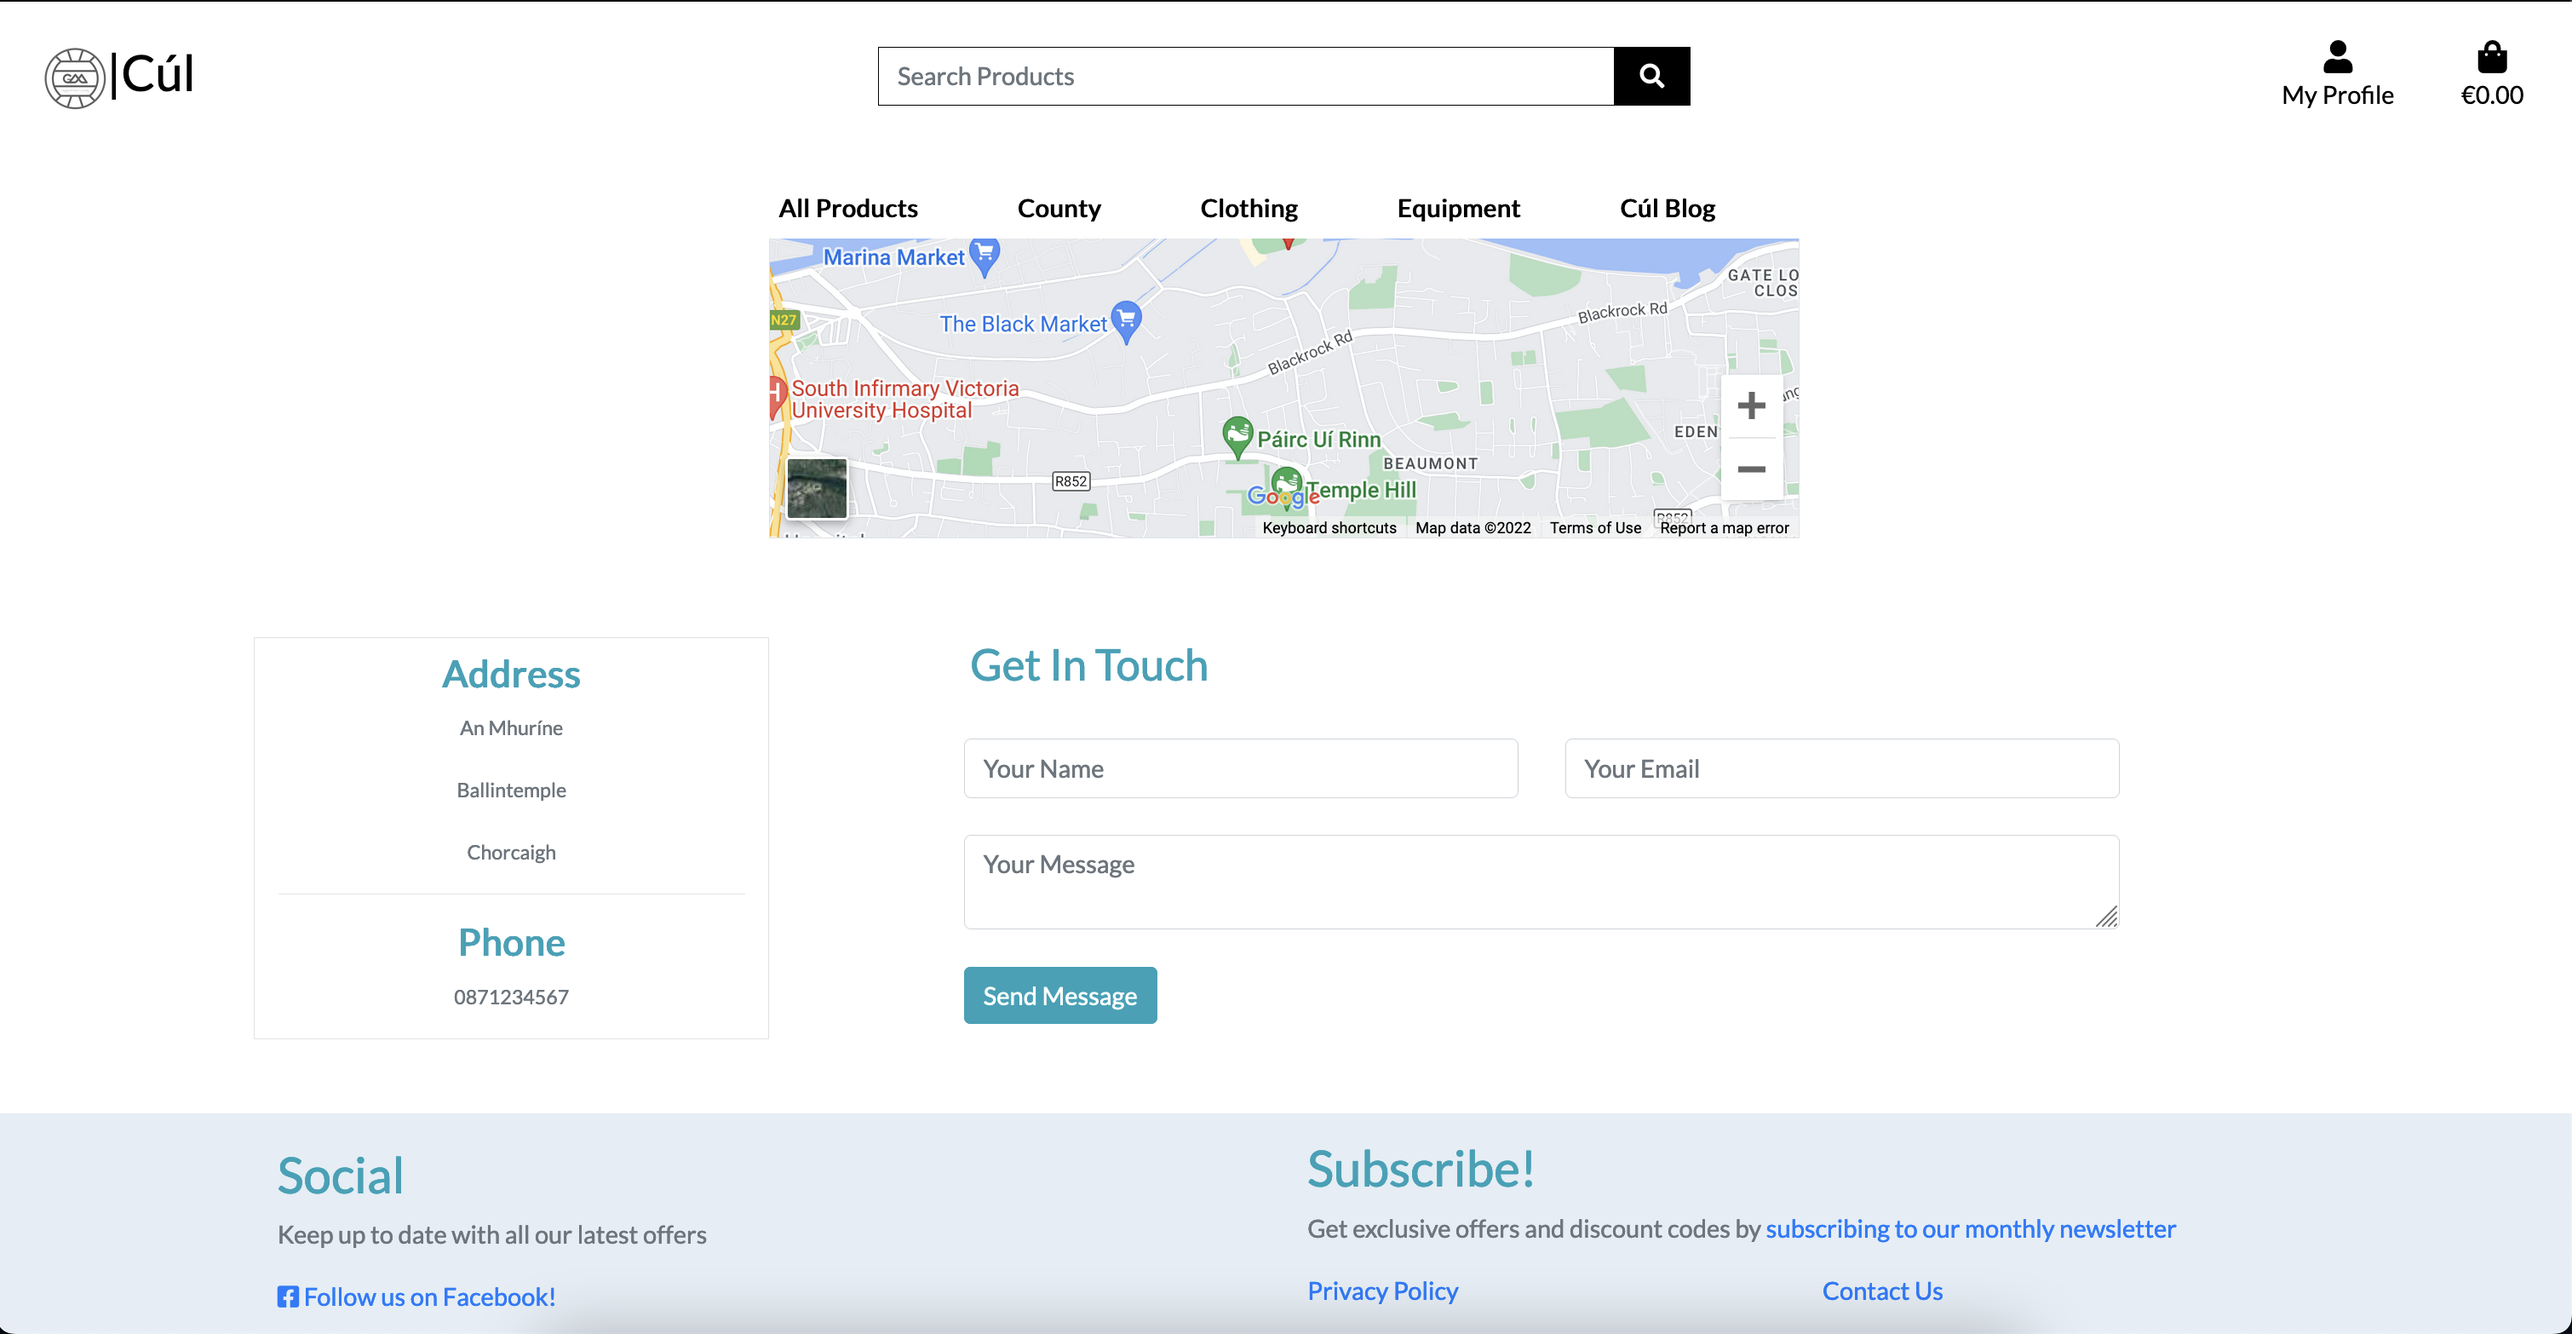
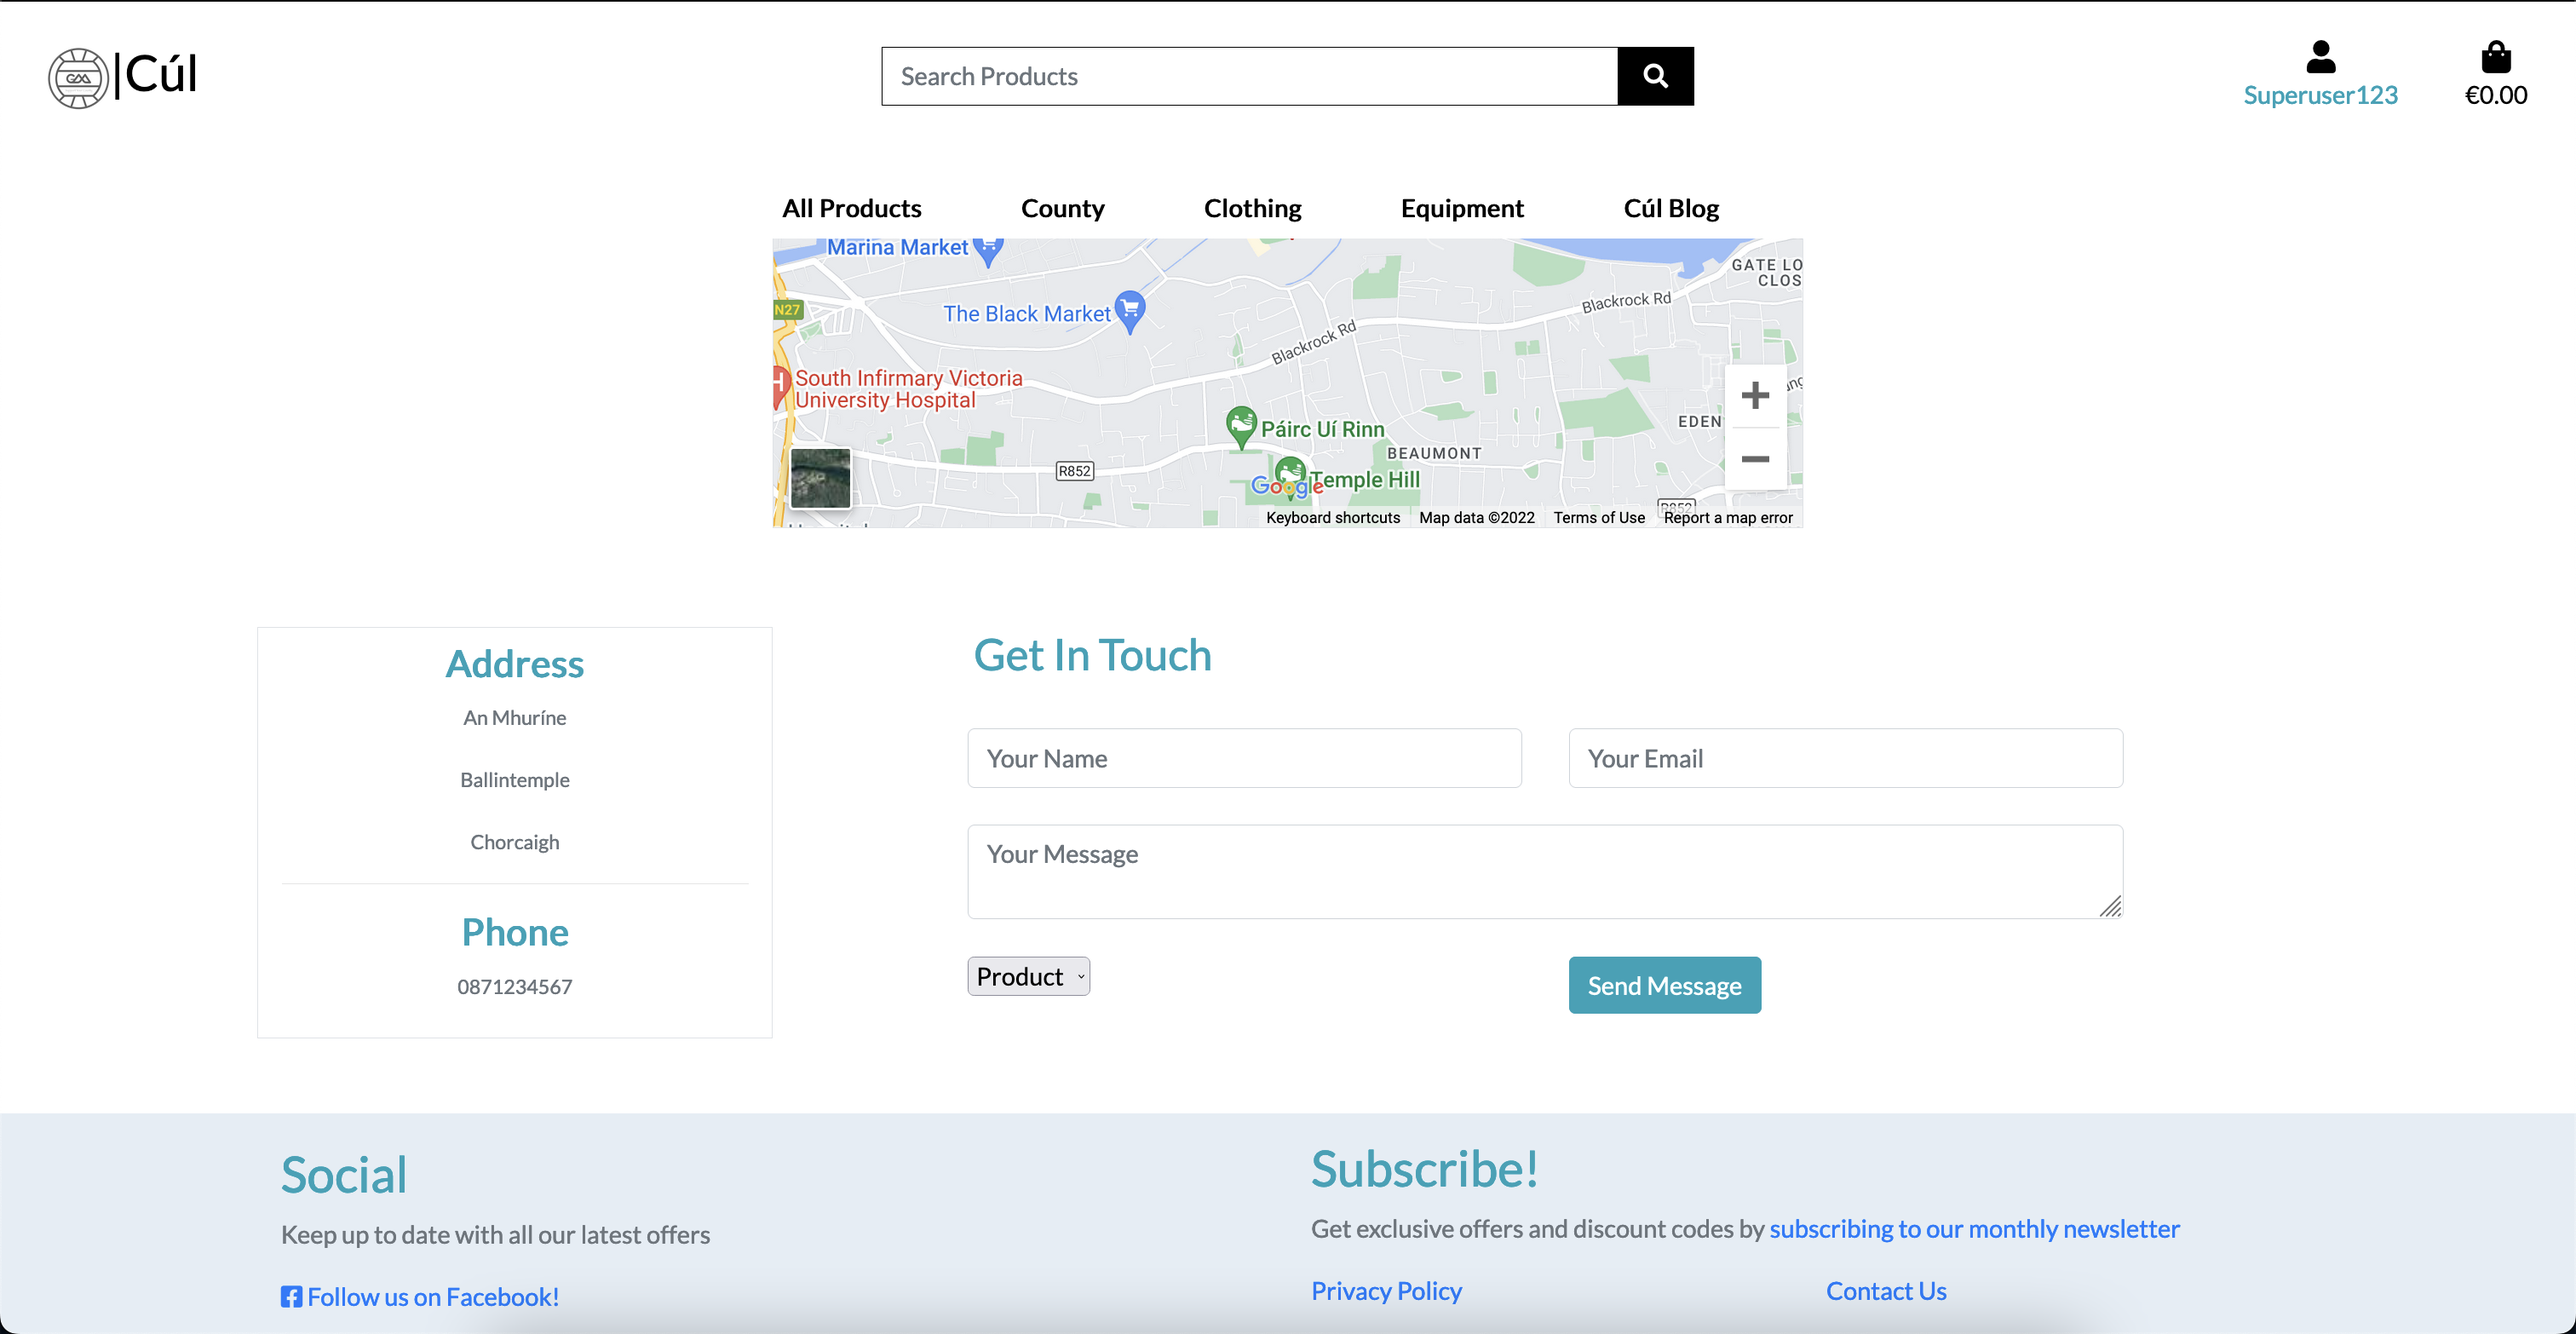
Update Readme

diff --git a/staticfiles/css/base.css b/staticfiles/css/base.css
@@ -30,8 +30,14 @@ body {
 
 /* from Bulma */
 .icon {
+    -webkit-box-align: center;
+    -ms-flex-align: center;
     align-items: center;
+    display: -webkit-inline-box;
+    display: -ms-inline-flexbox;
     display: inline-flex;
+    -webkit-box-pack: center;
+    -ms-flex-pack: center;
     justify-content: center;
     height: 1.5rem;
     width: 1.5rem;
@@ -47,6 +53,8 @@ body {
 }
 
 .main-logo-link {
+    width: -webkit-fit-content;
+    width: -moz-fit-content;
     width: fit-content;
 }
 
@@ -112,7 +120,6 @@ body {
 .nav-menu {
     text-align: right;
     margin-top: -65px;
-    padding: 20px, 0;
     background: #fff;
     color: #fff;
 }
@@ -148,6 +155,22 @@ a.category-badge>span.badge:hover {
 .delivery_banner {
     background-color: #5bc0de;
     margin-top: 2vh;
+}
+
+input[name='q']::-webkit-input-placeholder {
+    color: #6c757d;
+}
+
+input[name='q']::-moz-placeholder {
+    color: #6c757d;
+}
+
+input[name='q']:-ms-input-placeholder {
+    color: #6c757d;
+}
+
+input[name='q']::-ms-input-placeholder {
+    color: #6c757d;
 }
 
 input[name='q']::placeholder {
@@ -200,6 +223,22 @@ input[name='q']::placeholder {
     display: none;
 }
 
+.allauth-form-inner-content input::-webkit-input-placeholder {
+    color: #737e86;
+}
+
+.allauth-form-inner-content input::-moz-placeholder {
+    color: #737e86;
+}
+
+.allauth-form-inner-content input:-ms-input-placeholder {
+    color: #737e86;
+}
+
+.allauth-form-inner-content input::-ms-input-placeholder {
+    color: #737e86;
+}
+
 .allauth-form-inner-content input::placeholder {
     color: #737e86;
 }
@@ -226,7 +265,11 @@ input[name='q']::placeholder {
     border-radius: 0;
 
     /* standard bootstrap btn transitions */
+    -webkit-transition: color .15s ease-in-out, background-color .15s ease-in-out, border-color .15s ease-in-out, -webkit-box-shadow .15s ease-in-out;
+    transition: color .15s ease-in-out, background-color .15s ease-in-out, border-color .15s ease-in-out, -webkit-box-shadow .15s ease-in-out;
+    -o-transition: color .15s ease-in-out, background-color .15s ease-in-out, border-color .15s ease-in-out, box-shadow .15s ease-in-out;
     transition: color .15s ease-in-out, background-color .15s ease-in-out, border-color .15s ease-in-out, box-shadow .15s ease-in-out;
+    transition: color .15s ease-in-out, background-color .15s ease-in-out, border-color .15s ease-in-out, box-shadow .15s ease-in-out, -webkit-box-shadow .15s ease-in-out;
 }
 
 .allauth-form-inner-content button:hover,
@@ -341,7 +384,6 @@ input[name='q']::placeholder {
     }
 
     .navbar-toggler {
-        padding: 0, .6rem;
         font-size: 1rem;
     }
 

diff --git a/README.md b/README.md
@@ -502,6 +502,7 @@ An Admin/SuperUser can access the Add Blogpost Page. They also get access the ed
 
 - The Contact Us form properly submits.
 - An email is sent back to the site admin with the the users inputted data on it.
+- A user can select which type of query they are sending when submitting the form.
 
 
 #### Custom 404/500:
